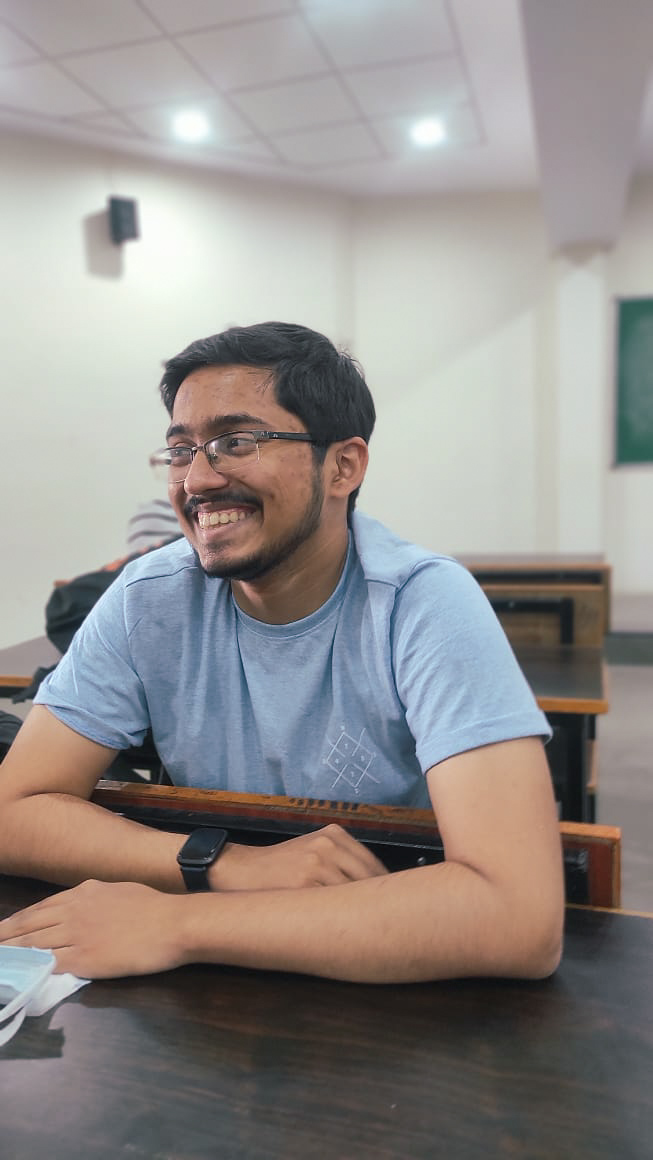
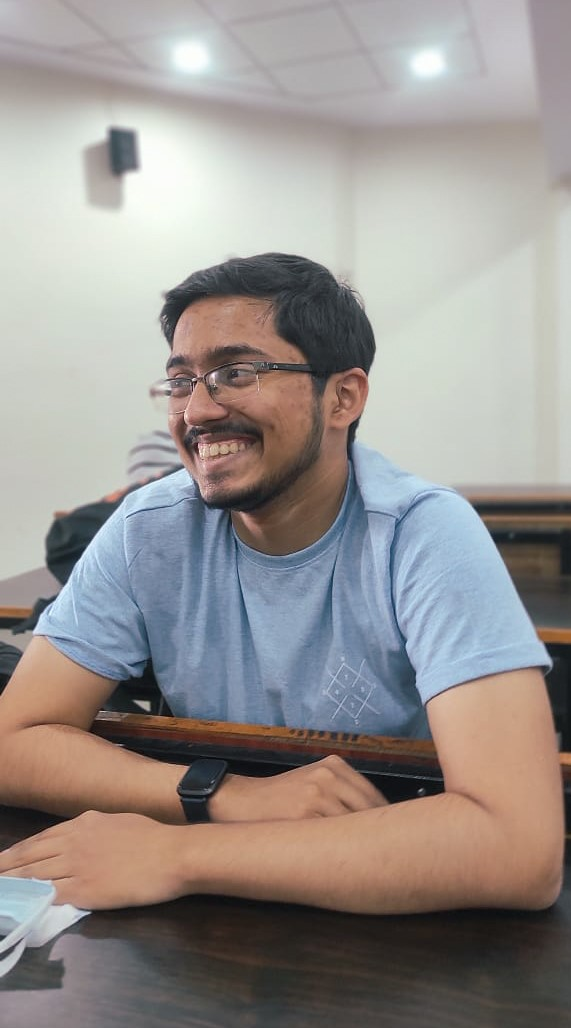
changed my pic

diff --git a/index.html b/index.html
@@ -302,7 +302,11 @@
         <h3 class="title border">About Me</h3>
         <div class="content-container flex">
           <div data-aos="fade" class="img-container">
-            <img loading="lazy" src="./images/DSC05302.jpg" alt="Pic of Me!!" />
+            <img
+              loading="lazy"
+              src="./images/IMG-20220315-WA0007 (1).jpg"
+              alt="Pic of Me!!"
+            />
           </div>
           <p data-aos="fade" class="content">
             Hello everyone!! Im a web developer based in Nagpur,Maharastra.<br /><br />
